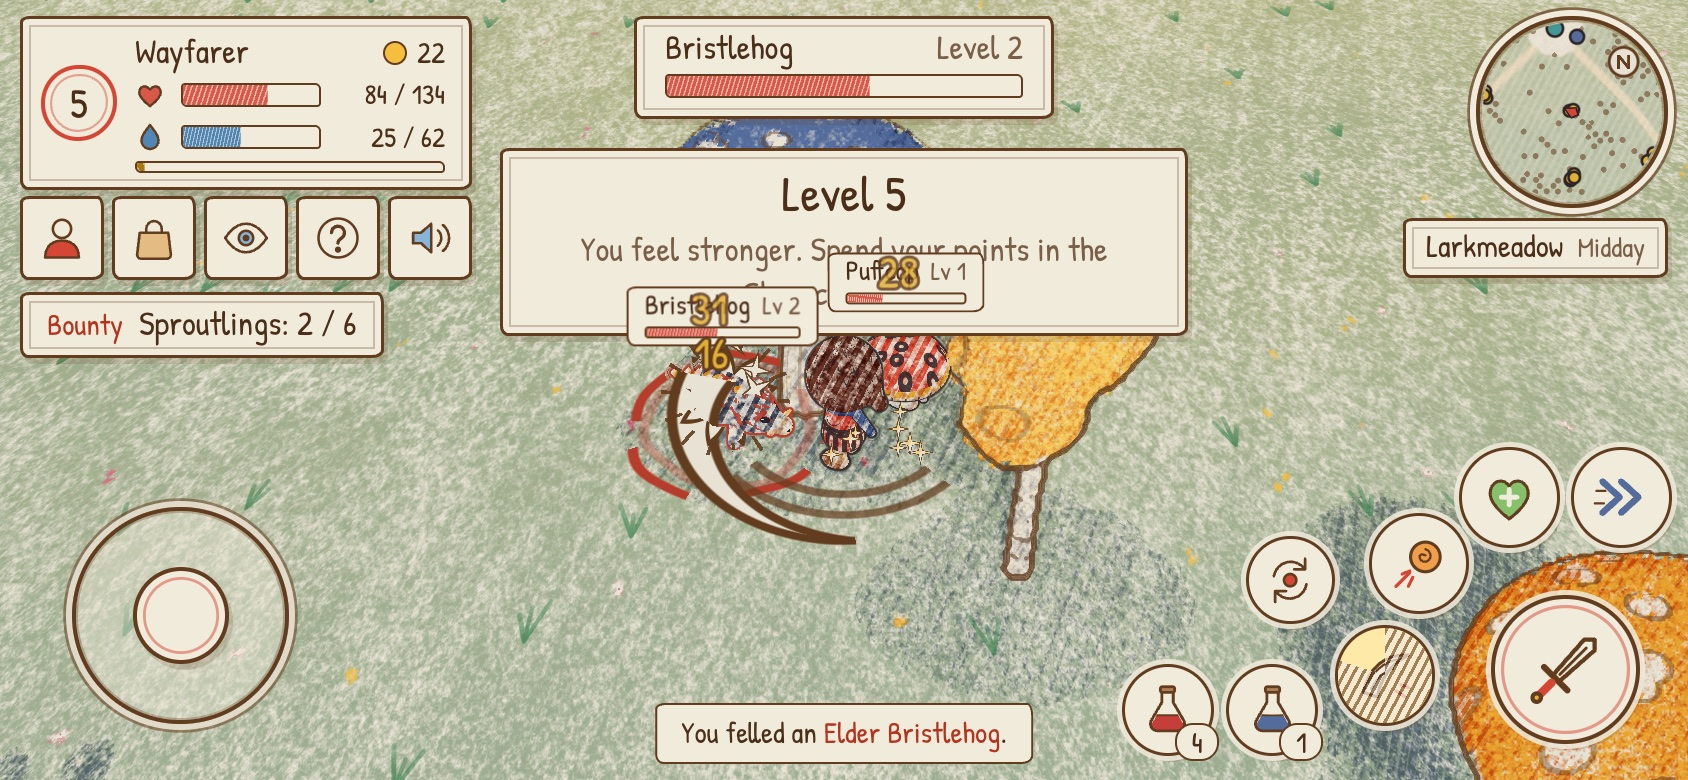
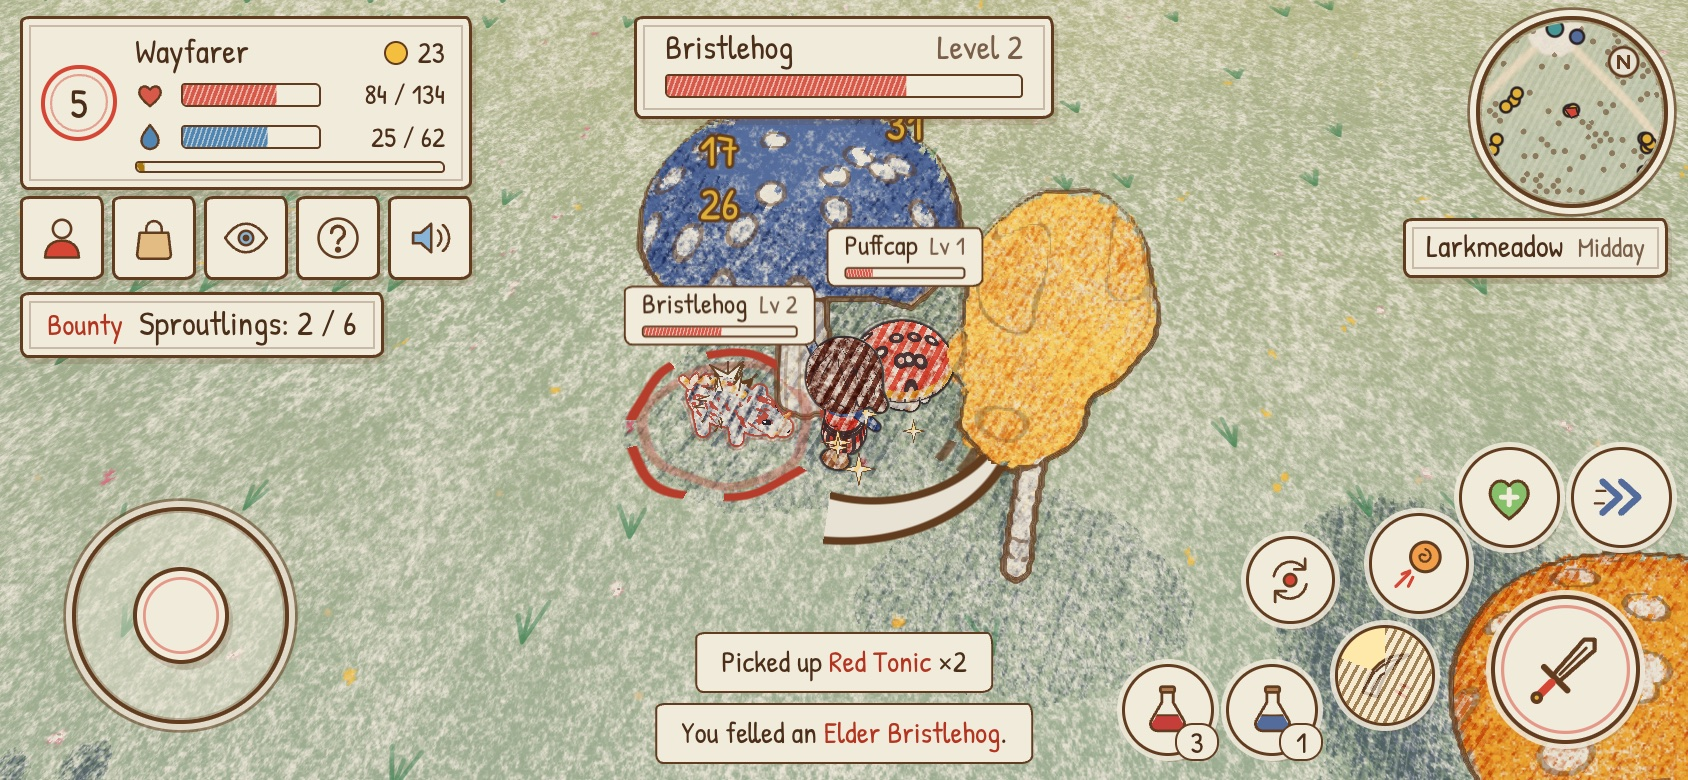
Give the hero a real walk, run and dash; keep labels from overlapping
Movement
- The hero's run was a shuffle: feet swung a quarter of the ground each step
  covered, with no bounce or lean, and the legs cycled faster than twelve
  drawings a second can show. Walk and run are now two cycles (a run sinks on
  the planted foot, leaves the ground at full stretch, leans and pumps the
  arms), the stride length follows the pace so feet do not slide, and Gale
  Step is one held lunge instead of a blurred run.
- The hog trots (bigger leg swing, body rise, head nod) and the hog's and
  crab's leg cycles are slowed to match the ground they cover.

Labels
- Name slips are laid out most important first; one that would land on
  another is lifted above it, one that would land on the HUD is left out.
- Damage numbers start above their creature's slip, fan out, and step over
  any slip or older number in their way.
- The HUD is drawn over the world's labels, and on a phone held sideways an
  announcement takes the top middle instead of sitting on the fight.

diff --git a/src/ui/plates.js b/src/ui/plates.js
@@ -1,54 +1,91 @@
-// World-anchored interface: nameplates over creatures and the numbers that
+// World-anchored interface: name slips over creatures and the numbers that
 // float up when something is hit. Pooled DOM nodes moved with transforms.
+//
+// Lettering never sits on other lettering:
+//  - slips are laid out most important first (your target, then nearest); one
+//    that would land on another is lifted to sit just above it, and one that
+//    would land on the HUD (an announcement, the target plate, the map…) is
+//    left out until there is room;
+//  - a number starts above its creature's slip, not on it; numbers landing on
+//    the same creature in quick succession fan out sideways; and a number that
+//    would cross any slip or an older number steps up over it;
+//  - the HUD is drawn over this layer (see ui.css), so nothing here can cover it.
+
+const GAP = 4;            // px kept clear between two slips
+const RISE = 44;          // px a number climbs
+// letter heights of the numbers (ui.css: .fl and its kinds), [desktop, touch], to size them without measuring
+const SIZES = { '': [27, 22], hurt: [27, 22], crit: [38, 30], heal: [22, 18], xp: [20, 18], miss: [20, 18] };
 
 export class Plates {
   constructor(game, root, floatRoot) {
     this.game = game;
     this.root = root;
     this.floatRoot = floatRoot;
-    this.nodes = new Map();   // entity id -> { el, fill, key }
+    this.nodes = new Map();   // entity id -> { el, fill, w, h, lift, shown }
     this.floaters = [];
     this.pool = [];
+    this.hud = [];            // HUD boxes slips must keep off; read again whenever the HUD changes
+    this.hudAge = 99;
+    this.hudSig = -1;
+    this.watch = ['toast', 'log', 'target', 'tracker'].map((id) => document.getElementById(id));
 
     const bus = game.bus;
-    bus.on('damage', (d) => {
-      const t = d.target;
-      this.float(t.x, t.y + t.height * 0.9, t.z, String(d.amount), t.kind === 'player' ? 'hurt' : d.crit ? 'crit' : '');
-    });
-    bus.on('miss', (d) => this.float(d.target.x, d.target.y + d.target.height, d.target.z, d.text, 'miss'));
-    bus.on('xp', (d) => { const p = game.player; this.float(p.x, p.y + 2.3, p.z, `+${d.amount} xp`, 'xp'); });
-    bus.on('heal', (d) => { if (!d.focus) this.float(d.entity.x, d.entity.y + 2.0, d.entity.z, 'Mended', 'heal'); });
+    bus.on('damage', (d) => this.float(d.target, String(d.amount), d.target.kind === 'player' ? 'hurt' : d.crit ? 'crit' : ''));
+    bus.on('miss', (d) => this.float(d.target, d.text, 'miss'));
+    bus.on('xp', (d) => { const p = game.player; this.floatAt(p.x, p.y + 2.5, p.z, `+${d.amount} xp`, 'xp'); });
+    bus.on('heal', (d) => { if (!d.focus) this.floatAt(d.entity.x, d.entity.y + 2.1, d.entity.z, 'Mended', 'heal'); });
   }
 
-  float(x, y, z, text, cls) {
+  /** A number over an entity: it rides above the entity's slip. */
+  float(e, text, cls) {
+    let slot = 0;
+    for (const o of this.floaters) if (o.e === e && o.t < 0.5) slot++;
+    const dx = slot ? (slot % 2 ? 1 : -1) * Math.ceil(slot / 2) * 36 : 0;
+    this.push({ e, text, cls, dx, ph: 0 });
+  }
+  /** A word at a point in the world. */
+  floatAt(x, y, z, text, cls) { this.push({ e: null, x, y, z, text, cls, dx: 0, ph: 0 }); }
+
+  push(f) {
     const el = this.pool.pop() || this.floatRoot.appendChild(document.createElement('div'));
-    el.className = 'fl ' + cls;
-    el.textContent = text;
+    el.className = 'fl ' + f.cls;
+    el.textContent = f.text;
     el.style.display = '';
-    this.floaters.push({ el, x: x + (Math.random() - 0.5) * 0.5, y, z, t: 0, life: cls === 'crit' ? 1.1 : 0.9 });
+    const size = (SIZES[f.cls] || SIZES[''])[this.game.touch ? 1 : 0];
+    f.el = el; f.t = 0; f.life = f.cls === 'crit' ? 1.1 : 0.9;
+    f.w = f.text.length * size * 0.58 + 8; f.h = size + 2; f.up = 0;
+    this.floaters.push(f);
+  }
+
+  /** The HUD's boxes, in this layer's pixels. */
+  readHud() {
+    const hud = this.hud;
+    hud.length = 0;
+    const add = (el) => {
+      if (el.hidden) return;
+      const r = el.getBoundingClientRect();
+      if (r.width > 2 && r.height > 2) hud.push({ l: r.left, t: r.top, r: r.right, b: r.bottom, hud: true });
+    };
+    for (const el of document.querySelectorAll('#ui > section:not(#log), #ui > nav, #log p, #toast.show, #place, body.touch #hotbar .slot')) add(el);
   }
 
   update(dt) {
     const g = this.game, cam = g.camera, p = g.player;
     const W = g.renderer.size.cssW, H = g.renderer.size.cssH;   // the picture's box, which #plates and #floaters share
+    // the HUD's boxes are read again when an announcement, a message or a plate comes or goes, and now and then anyway
+    const [toast, log, target, tracker] = this.watch;
+    const sig = (toast.classList.contains('show') ? 1 + toast.textContent.length * 64 : 0) + (target.hidden ? 0 : 2) + (tracker.hidden ? 0 : 4) + log.childElementCount * 8;
+    if (sig !== this.hudSig || (this.hudAge += dt) > 0.5) { this.hudSig = sig; this.hudAge = 0; this.readHud(); }
+    const placed = [];         // slips already laid out this frame
+    const blocked = (l, r, lift, y, h) => {
+      const b = y - lift, t = b - h;
+      for (const o of this.hud) if (l < o.r + GAP && r > o.l - GAP && t < o.b + GAP && b > o.t - GAP) return o;
+      for (const o of placed) if (l < o.r + GAP && r > o.l - GAP && t < o.b + GAP && b > o.t - GAP) return o;
+      return null;
+    };
 
-    // numbers rise and fade; no bounce, no zoom
-    let w = 0;
-    for (const f of this.floaters) {
-      f.t += dt;
-      const k = f.t / f.life;
-      if (k >= 1) { f.el.style.display = 'none'; this.pool.push(f.el); continue; }
-      const s = cam.project(f.x, f.y + k * 1.1, f.z);
-      if (s) {
-        f.el.style.transform = `translate(${(s.x * W).toFixed(1)}px, ${(s.y * H).toFixed(1)}px) translate(-50%, -50%)`;
-        f.el.style.opacity = k < 0.6 ? 1 : (1 - (k - 0.6) / 0.4).toFixed(2);
-      }
-      this.floaters[w++] = f;
-    }
-    this.floaters.length = w;
-
-    // nameplates: townsfolk always, monsters when hovered, targeted or hurt, loot when near
-    const seen = new Set();
+    // ---- name slips: townsfolk always, monsters when hovered, targeted or hurt, loot when near
+    const want = [];
     for (const e of g.entities.list) {
       if (e.kind === 'player' || e.dead || e.grow < 0.6) continue;
       const dist = Math.hypot(e.x - p.x, e.z - p.z);
@@ -59,6 +96,14 @@ export class Plates {
       if (!show) continue;
       const s = cam.project(e.x, e.y + e.height + 0.25 + e.lift, e.z);
       if (!s || s.x < -0.1 || s.x > 1.1 || s.y < -0.1 || s.y > 1.1) continue;
+      const rank = e === p.target ? 0 : e.hover ? 1 : e.kind === 'npc' ? 2 + dist * 0.01 : e.kind === 'drop' ? 200 + dist : (e.elite ? 5 : 10) + dist;
+      want.push({ e, x: s.x * W, y: s.y * H, rank });
+    }
+    want.sort((a, b) => a.rank - b.rank);
+
+    const seen = new Set();
+    for (const it of want) {
+      const e = it.e;
       seen.add(e.id);
       let n = this.nodes.get(e.id);
       if (!n) {
@@ -67,12 +112,62 @@ export class Plates {
         if (e.kind === 'monster') el.innerHTML = `${e.name}<small>Lv ${e.level}</small><span class="mini"><i></i></span>`;
         else if (e.kind === 'npc') el.innerHTML = `${e.name}<small>${e.role === 'shop' ? 'Trader' : 'Warden'}</small>`;
         else el.textContent = e.name;
-        n = { el, fill: el.querySelector('i'), hp: -1 };
+        n = { el, fill: el.querySelector('i'), hp: -1, w: el.offsetWidth, h: el.offsetHeight, lift: 0, shown: true };
         this.nodes.set(e.id, n);
       }
-      n.el.style.transform = `translate(${(s.x * W).toFixed(1)}px, ${(s.y * H).toFixed(1)}px) translate(-50%, -100%)`;
+      // find room: straight above the creature, or lifted over whatever slip is in the way
+      const l = it.x - n.w / 2, r = it.x + n.w / 2;
+      let need = 0, room = false;
+      for (let tries = 0; tries < 6 && !room; tries++) {
+        const hit = blocked(l, r, need, it.y, n.h);
+        if (!hit) room = true;
+        else if (hit.hud || need > 90) break;       // under the HUD, or too far from its creature to read as its name
+        else need = it.y - hit.t + GAP;
+      }
+      if (room !== n.shown) { n.shown = room; n.el.style.visibility = room ? '' : 'hidden'; if (!room) n.lift = 0; }
+      if (!room) continue;
+      // up at once, down gently: a slip hops clear of another, then settles back without sliding through anything
+      let lift = need;
+      if (n.lift > need) { lift = Math.max(need, n.lift - 120 * dt); if (blocked(l, r, lift, it.y, n.h)) lift = need; }
+      n.lift = lift;
+      placed.push({ l, r, t: it.y - lift - n.h, b: it.y - lift });
+      n.el.style.transform = `translate(${it.x.toFixed(1)}px, ${(it.y - n.lift).toFixed(1)}px) translate(-50%, -100%)`;
       if (n.fill && n.hp !== e.hp) { n.hp = e.hp; n.fill.style.transform = `scaleX(${Math.max(0, e.hp / e.maxHp).toFixed(3)})`; }
     }
     for (const [id, n] of this.nodes) if (!seen.has(id)) { n.el.remove(); this.nodes.delete(id); }
+
+    // ---- numbers rise and fade; no bounce, no zoom. Oldest first, so a new one finds its way round the others.
+    let w = 0;
+    for (const f of this.floaters) {
+      f.t += dt;
+      const k = f.t / f.life;
+      if (k >= 1) { f.el.style.display = 'none'; this.pool.push(f.el); continue; }
+      let x = 0, y = 0, s;       // y is the foot of the lettering
+      if (f.e) {
+        const e = f.e, n = this.nodes.get(e.id);
+        if (n) f.ph = n.shown ? n.h + n.lift : 0;                 // clear of the slip, and remembered once the slip is gone
+        s = cam.project(e.x, e.y + e.height + 0.25 + (e.lift || 0), e.z);
+        if (s) { x = s.x * W + f.dx; y = s.y * H - f.ph - 3 - k * RISE; }
+      } else {
+        s = cam.project(f.x, f.y + k * 1.1, f.z);
+        if (s) { x = s.x * W; y = s.y * H + f.h / 2; }
+      }
+      if (s) {
+        // step up over any slip or older number in the way (and never back down into it)
+        const l = x - f.w / 2, r = x + f.w / 2;
+        for (let tries = 0; tries < 6; tries++) {
+          const b = y - f.up, t = b - f.h;
+          let hit = null;
+          for (const o of placed) if (l < o.r + 2 && r > o.l - 2 && t < o.b + 2 && b > o.t - 2) { hit = o; break; }
+          if (!hit) break;
+          f.up = y - hit.t + 3;
+        }
+        placed.push({ l, r, t: y - f.up - f.h, b: y - f.up });
+        f.el.style.transform = `translate(${x.toFixed(1)}px, ${(y - f.up).toFixed(1)}px) translate(-50%, -100%)`;
+        f.el.style.opacity = k < 0.6 ? 1 : (1 - (k - 0.6) / 0.4).toFixed(2);
+      } else f.el.style.opacity = 0;
+      this.floaters[w++] = f;
+    }
+    this.floaters.length = w;
   }
 }

diff --git a/src/gfx/archetypes/humanoid.js b/src/gfx/archetypes/humanoid.js
@@ -13,15 +13,32 @@ void entPose() {
   float w = ePose.x, act = ePose.y, at = ePose.z, mv = ePose.w;
   float s = sin(w), c = cos(w);
   float idle = sin(uTime * 2.0 + eLook.x * 6.28);
-  float bob = abs(c) * 0.045 * mv + 0.01 * idle * (1.0 - mv);
+  // Walk and run are two different cycles. A walk rises as the legs pass under the
+  // body. A run sinks onto the planted foot and is thrown clear of the ground with
+  // the feet wide apart, leans into it, lifts the knees and pumps the arms. The
+  // stride (see systems/player.js) is long enough that twelve drawings a second
+  // show every stage of it.
+  float run = smoothstep(0.8, 1.0, mv);
+  float apart = s * s;                                       // 1 with the feet wide, 0 as they pass
+  float bob = mix(abs(c) * 0.05, apart * 0.15 - 0.04, run) * mv + 0.01 * idle * (1.0 - mv);
+  float lean = mv * mix(0.05, 0.14, run);
   hHip = vec3(0.0, 0.47 + bob, 0.0);
-  hChest = hHip + vec3(0.0, 0.27, 0.05 * mv);
-  hHead = hChest + vec3(0.0, 0.43, 0.03 * mv);
-  hFootL = vec3(-0.12, 0.07 + max(c, 0.0) * 0.13 * mv, s * 0.26 * mv);
-  hFootR = vec3(0.12, 0.07 + max(-c, 0.0) * 0.13 * mv, -s * 0.26 * mv);
-  hHandL = hChest + vec3(-0.3, -0.24 + 0.01 * idle, -s * 0.2 * mv + 0.02);
-  hHandR = hChest + vec3(0.3, -0.24 + 0.01 * idle, s * 0.2 * mv + 0.02);
-  hBlade = normalize(vec3(0.25, 0.85, 0.45));
+  hChest = hHip + vec3(0.0, 0.27 - 0.015 * run, lean);
+  hHead = hChest + vec3(0.0, 0.43 - 0.01 * run, lean * 0.6 - 0.02 * run * apart);
+  // a foot swings forward lifted and comes back planted; in a run the lift starts
+  // early (the heel kicks up behind) and both feet leave the ground at full stretch
+  float reach = 0.4 * mv;
+  float lift = mix(0.1, 0.25, run) * min(1.0, mv * 1.5);
+  float air = run * mv * apart * 0.11;
+  float early = 0.6 * run;
+  hFootL = vec3(-0.12, 0.07 + max(cos(w - early), 0.0) * lift + air, s * reach - 0.05 * run);
+  hFootR = vec3(0.12, 0.07 + max(-cos(w - early), 0.0) * lift + air, -s * reach - 0.05 * run);
+  // arms swing against the legs, hands rising as they come forward; the sword arm swings shorter
+  float pump = mix(0.2, 0.32, run) * mv;
+  float rise = 0.09 * run * mv;
+  hHandL = hChest + vec3(-0.3 + 0.04 * run, -0.24 + 0.01 * idle + rise * max(-s, 0.0), -s * pump + 0.02);
+  hHandR = hChest + vec3(0.3 - 0.03 * run, -0.24 + 0.01 * idle + rise * max(s, 0.0), s * pump * 0.7 + 0.02);
+  hBlade = normalize(vec3(0.25, 0.85 - 0.2 * run, 0.45 - 0.5 * run));
   if (act > 0.5 && act < 1.5) {
     // swing: wind up over the right shoulder, cut across the front, recover
     float wind = smoothstep(0.0, 0.22, at), cut = smoothstep(0.22, 0.5, at), rec = smoothstep(0.62, 1.0, at);
@@ -41,6 +58,16 @@ void entPose() {
     float k = 1.0 - at;
     hChest.z -= 0.08 * k; hHead.z -= 0.14 * k;
     hHandL.y += 0.1 * k; hHandR.y += 0.1 * k;
+  } else if (act > 3.5 && act < 4.5) {
+    // a dash is one held drawing: a long low lunge, arms and blade trailing
+    hHip = vec3(0.0, 0.4, 0.0);
+    hChest = hHip + vec3(0.0, 0.24, 0.17);
+    hHead = hChest + vec3(0.0, 0.4, 0.13);
+    hFootL = vec3(-0.11, 0.09, 0.46);
+    hFootR = vec3(0.11, 0.24, -0.5);
+    hHandL = hChest + vec3(-0.27, -0.08, -0.34);
+    hHandR = hChest + vec3(0.3, -0.14, -0.3);
+    hBlade = normalize(vec3(0.2, 0.22, -0.95));
   }
 }
 

diff --git a/src/ui/ui.css b/src/ui/ui.css
@@ -153,7 +153,11 @@ body.titled #ui { opacity: 0; }
 #menu button.alert::after { content: ''; position: absolute; right: -5px; top: -5px; width: 11px; height: 11px; border-radius: 50%; background: var(--vermilion); border: 1.4px solid var(--pen); }
 
 /* ---- world-anchored labels and numbers */
-#plates, #floaters { position: absolute; left: 0; top: 0; right: 0; height: var(--view-h); overflow: hidden; pointer-events: none; }
+#plates, #floaters { position: absolute; left: 0; top: 0; right: 0; height: var(--view-h); overflow: hidden; pointer-events: none; z-index: 0; }
+/* the HUD is drawn over the world's own labels, so a name or a number can never cover it (plates.js keeps them apart) */
+#ui > section, #ui > nav, #toast { z-index: 2; }
+#stick { z-index: 1; }
+#panels { z-index: 3; }
 .np { position: absolute; left: 0; top: 0; padding: 1px 10px 3px; background: var(--paper); border: 1.3px solid var(--pen); border-radius: var(--wobble); font-size: 16px; line-height: 1.2; white-space: nowrap; text-align: center; will-change: transform; }
 .np small { color: var(--dim); margin-left: 6px; font-size: 14px; }
 .np .mini { display: block; height: 6px; margin: 2px 0 1px; border: 1px solid var(--pen); border-radius: 2px; background: var(--paper); overflow: hidden; }
@@ -374,7 +378,8 @@ body.touch .btn { min-height: 44px; padding: 8px 16px 10px; }
   body.touch #map-ring { width: 96px; height: 96px; }
   body.touch #place { padding: 2px 10px 4px; font-size: 16px; gap: 7px; }
   body.touch #place .dim { font-size: 14px; }
-  body.touch #toast { top: 19%; padding: 7px 24px 9px; max-width: calc(100vw - 500px); }
+  /* an announcement takes the top middle (over the target plate while it shows), clear of the fight */
+  body.touch #toast { top: 8px; padding: 6px 24px 8px; max-width: calc(100vw - 500px); }
   body.touch #toast strong { font-size: 25px; }
   body.touch #log { display: flex; left: 50%; right: auto; transform: translateX(-50%); bottom: calc(8px + var(--sb)); width: max-content; max-width: calc(100vw - 144 * var(--u)); align-items: center; }
   body.touch #log p { align-self: center; font-size: 15px; }

diff --git a/src/gfx/archetypes/critters.js b/src/gfx/archetypes/critters.js
@@ -100,8 +100,9 @@ void entPose() {
 }
 float entMap(vec3 p, out float mat) {
   float s = sin(ePose.x) * ePose.w;
-  float feet = min(length(p - vec3(-0.12, 0.06 + max(s, 0.0) * 0.07, 0.04 + s * 0.08)),
-                   length(p - vec3(0.12, 0.06 + max(-s, 0.0) * 0.07, 0.04 - s * 0.08))) - 0.085;
+  float up = cos(ePose.x) * ePose.w;
+  float feet = min(length(p - vec3(-0.12, 0.06 + max(up, 0.0) * 0.09, 0.04 + s * 0.12)),
+                   length(p - vec3(0.12, 0.06 + max(-up, 0.0) * 0.09, 0.04 - s * 0.12))) - 0.085;
   vec3 q = puffLocal(p);
   float body = sdTaper(q, vec3(0.0, 0.14, 0.0), vec3(0.0, 0.42, 0.0), 0.2, 0.165);
   vec3 c = q - vec3(0.0, 0.5, 0.0);
@@ -155,8 +156,9 @@ registerArchetype({
 float bBob, bCharge, bNod;
 void entPose() {
   float mv = ePose.w;
-  bBob = abs(sin(ePose.x)) * 0.035 * mv + 0.01 * sin(uTime * 2.2 + eLook.x * 6.0);
-  bCharge = 0.0; bNod = 0.06 * sin(uTime * 1.3 + eLook.x * 9.0) * (1.0 - mv);
+  // a trot: the body rises as each diagonal pair of legs passes under it, and the head nods with it
+  bBob = abs(cos(ePose.x)) * 0.06 * mv + 0.01 * sin(uTime * 2.2 + eLook.x * 6.0);
+  bCharge = 0.0; bNod = 0.06 * sin(uTime * 1.3 + eLook.x * 9.0) * (1.0 - mv) + 0.09 * sin(ePose.x * 2.0) * mv;
   if (ePose.y > 0.5 && ePose.y < 1.5) { float k = sin(saturate(ePose.z) * PI); bCharge = k * 0.3; bNod = -k * 0.25; }
   if (ePose.y > 2.5) bCharge = -0.1 * (1.0 - ePose.z);
 }
@@ -167,7 +169,9 @@ float entMap(vec3 p, out float mat) {
   float sx = sign(lp.x), sz = sign(lp.z);
   float ph = s * sx * sz;
   vec3 hipJ = vec3(0.15 * sx, 0.26 + bBob, 0.2 * sz);
-  vec3 foot = vec3(0.16 * sx, 0.05 + max(ph, 0.0) * 0.08, 0.21 * sz + ph * 0.1);
+  // each foot swings forward lifted and comes back planted; the stride (monsters.js) matches the ground it covers
+  float lifted = max(cos(ePose.x) * sx * sz, 0.0) * ePose.w;
+  vec3 foot = vec3(0.16 * sx, 0.05 + lifted * 0.13, 0.21 * sz + ph * 0.2);
   float legs = sdTaper(lp, hipJ, foot, 0.07, 0.055);
   p.z -= bCharge; p.y -= bBob;
   vec3 br = vec3(0.25, 0.225, 0.37);

diff --git a/src/game/systems/player.js b/src/game/systems/player.js
@@ -8,6 +8,7 @@ import { damp, dampAngle } from '../../core/math.js';
 import { yawFromDir, dirFromYaw } from '../entities.js';
 
 const SWING = 0.42, HIT_AT = 0.45, REACH = 1.55;
+const CADENCE = 10.4;      // radians of stride a second: about 1.65 full cycles
 const out = { x: 0, z: 0 };
 
 export class PlayerSystem {
@@ -64,9 +65,15 @@ export class PlayerSystem {
       // walking into something: give up on a click-move rather than grind against it
       if (moved < Math.hypot(dx, dz) * dt * 0.25) { this.stuck += dt; if (this.stuck > 0.6) { p.moveTo = null; this.stuck = 0; } } else this.stuck = 0;
       if (moved > 1e-4 && !(p.action === 1 && tgt)) p.yaw = dampAngle(p.yaw, yawFromDir(p.x - px, p.z - pz), 16, dt);
-      const before = p.walk;
-      p.walk += moved * 2.6;
-      if (Math.floor(before / Math.PI) !== Math.floor(p.walk / Math.PI)) g.bus.emit('step', { entity: p, water: wet });
+      // The stride: legs turn over about 1.65 times a second whatever the pace, so a
+      // step is as long as the ground it covers (a stroll takes short steps, a run long
+      // ones) and the feet do not slide. A dash is a single held lunge, not a run.
+      if (!p.dash) {
+        const pace = moved / Math.max(dt, 1e-4);
+        const before = p.walk;
+        p.walk += moved * Math.min(4.5, Math.max(1.9, CADENCE / Math.max(pace, 0.1)));
+        if (Math.floor(before / Math.PI) !== Math.floor(p.walk / Math.PI)) g.bus.emit('step', { entity: p, water: wet });
+      }
     }
     const movedNow = Math.hypot(p.x - px, p.z - pz) / Math.max(dt, 1e-4);
     p.move = damp(p.move, Math.min(1, movedNow / (GAME.PLAYER_SPEED * 0.8)), 14, dt);

diff --git a/src/game/data/monsters.js b/src/game/data/monsters.js
@@ -24,7 +24,7 @@ export const MONSTERS = {
   },
   bristlehog: {
     name: 'Bristlehog', archetype: 'bristlehog', scale: 1.1, radius: 0.48, height: 1.0,
-    hp: 68, atk: 10, speed: 3.5, range: 1.35, attackTime: 0.7, cooldown: 1.8, aggro: 7.5, xp: 23, stride: 5.0,
+    hp: 68, atk: 10, speed: 3.5, range: 1.35, attackTime: 0.7, cooldown: 1.8, aggro: 7.5, xp: 23, stride: 3.1,
     colors: [[74, 77, 94], [226, 176, 52], [226, 188, 130]],         // charcoal hide, mustard bristles and tusks, tan snout
     loot: [['glint', 1, [4, 9]], ['hog_bristle', 0.5, [1, 2]], ['tonic', 0.1, [1, 1]], ['charm_might', 0.015, [1, 1]]],
   },
@@ -42,7 +42,7 @@ export const MONSTERS = {
   },
   shellsnap: {
     name: 'Shellsnap', archetype: 'shellsnap', scale: 1.05, radius: 0.48, height: 0.75,
-    hp: 50, atk: 8, speed: 2.9, range: 1.25, attackTime: 0.6, cooldown: 1.5, aggro: 5, xp: 17, stride: 3.0,
+    hp: 50, atk: 8, speed: 2.9, range: 1.25, attackTime: 0.6, cooldown: 1.5, aggro: 5, xp: 17, stride: 2.2,
     colors: [[188, 84, 60], [226, 176, 52], [226, 188, 130]],        // brick shell, mustard claws, tan legs
     loot: [['glint', 1, [3, 7]], ['snap_claw', 0.5, [1, 1]], ['tonic', 0.08, [1, 1]], ['charm_grace', 0.015, [1, 1]]],
   },

diff --git a/src/game/data/skills.js b/src/game/data/skills.js
@@ -55,6 +55,7 @@ export const SKILLS = [
     cast(g, p, aim) {
       p.yaw = yawFromDir(aim.dirX, aim.dirZ);
       p.dash = { x: aim.dirX, z: aim.dirZ, speed: 26, t: 0.22 };
+      p.action = 4; p.actionT = 0; p.actionDur = 0.24;     // the lunge pose
       p.invuln = Math.max(p.invuln, 0.35);
       p.moveTo = null;
       g.bus.emit('dash', { x: p.x, y: p.y, z: p.z });

diff --git a/src/main.js b/src/main.js
@@ -7,7 +7,7 @@ const canvas = document.getElementById('view');
 try {
   const game = new Game(canvas);
   window.__game = game; // handy in the console; nothing depends on it
-  createUI(game);
+  game.ui = createUI(game);
   import('./audio/audio.js').then((m) => m.createAudio(game)).catch((e) => console.warn('Audio unavailable:', e));
   game.start();
 } catch (err) {

diff --git a/src/ui/ui.js b/src/ui/ui.js
@@ -233,5 +233,5 @@ export function createUI(game) {
     plates.update(dt);
   });
 
-  return { toast, log, panels };
+  return { toast, log, panels, plates };
 }

diff --git a/README.md b/README.md
@@ -141,6 +141,7 @@ The interface is the same paper: cream plates with a pen border, hand lettering,
 - Keyboard: Tab, Enter and Space work the interface whenever a panel or the title is up or a button has focus, with a visible blue pen ring; C, B and V open panels, Esc closes them.
 - Nothing needs a drag, a pinch or a wheel: tapping the picture walks, and the View panel has buttons for turning, tilting and zooming. Pinch-zooming the page itself is left on.
 - Nothing relies on colour alone (bars carry an icon and numbers), and `prefers-reduced-motion` turns off screen shake and the title's turning view.
+- Lettering never sits on other lettering: name slips are laid out so they clear each other and the HUD, damage numbers start above a creature's slip and step over anything in their way, and the HUD is drawn over the world's labels (`src/ui/plates.js`).
 
 The game itself is a moving picture played with a mouse, keys or thumbs; it has not been tested with a screen reader beyond the roles above.
 
